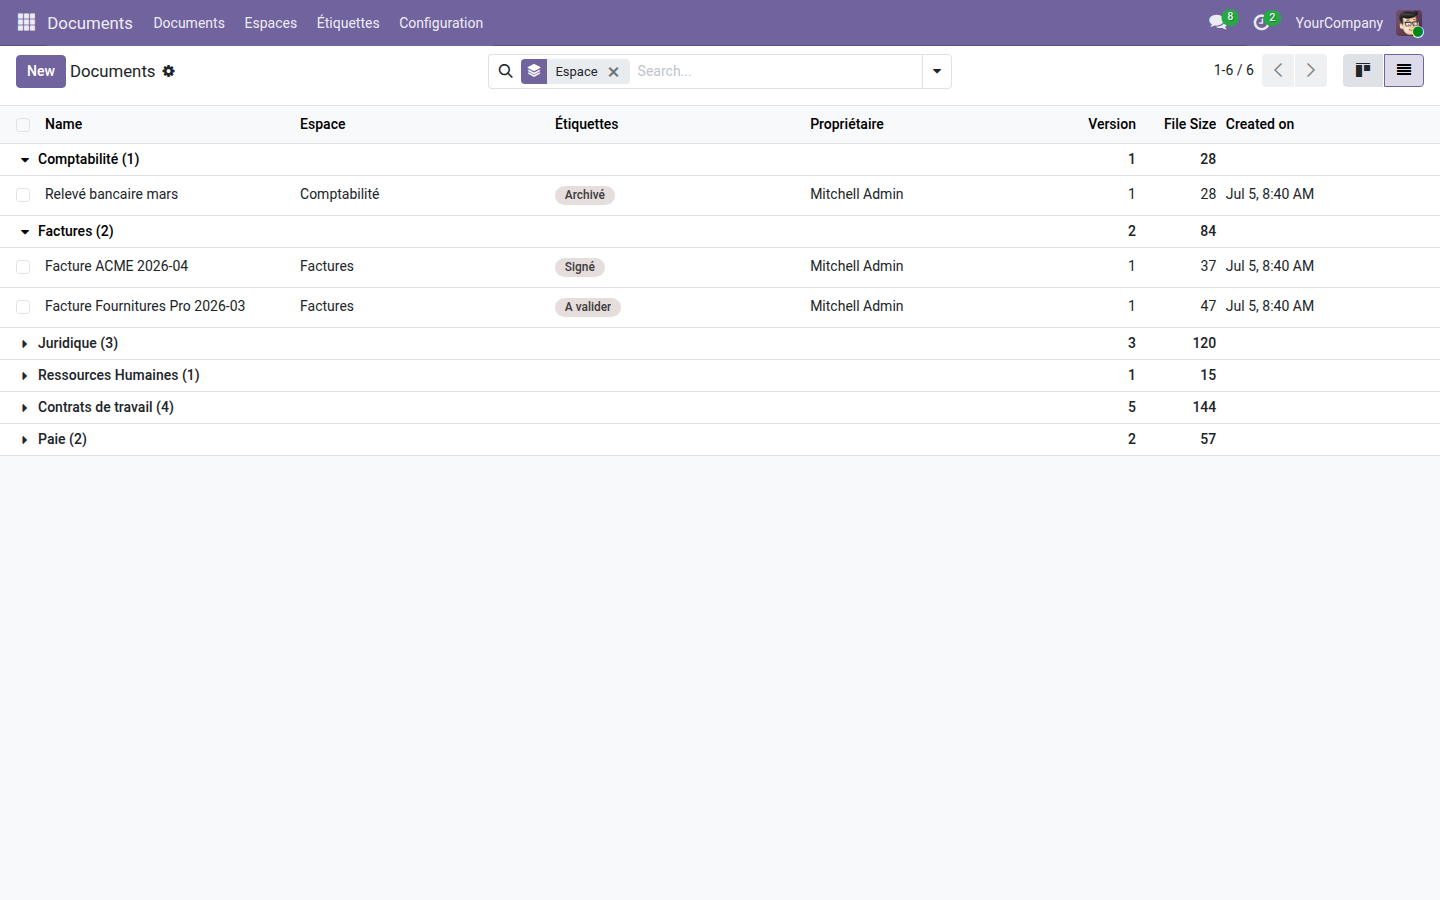
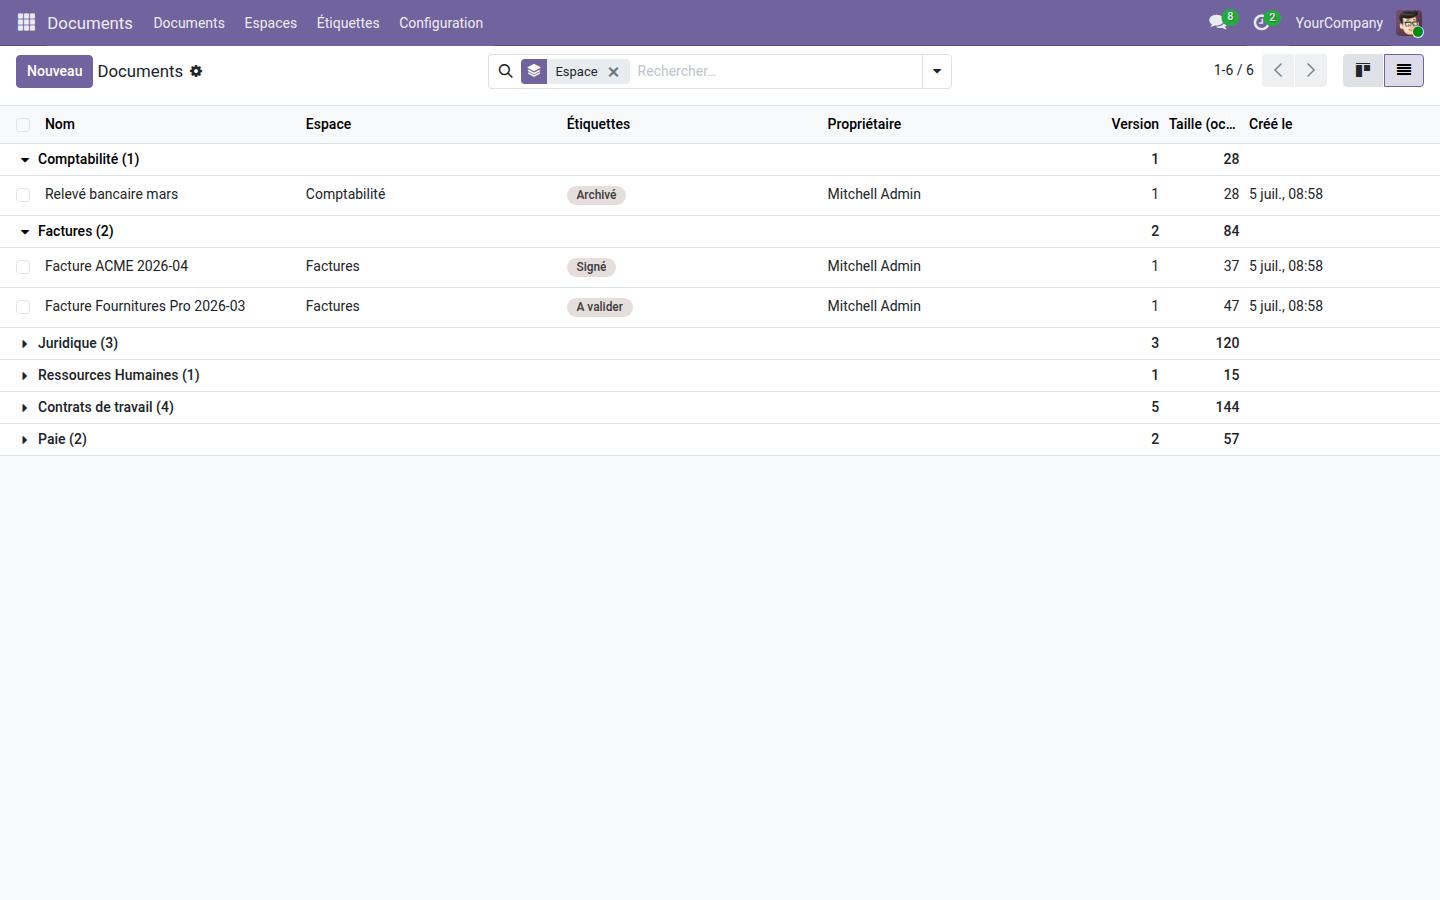
fix(oski_dms): libellés FR sur champs document/espace/étiquette + captures fiche en français
- string= FR : Nom, Type de fichier, Taille (octets) (document) ; Nom (espace, étiquette)
- 3 captures store re-faites en locale fr_FR (UI 100% française)

diff --git a/oski_dms/models/dms_document.py b/oski_dms/models/dms_document.py
@@ -8,7 +8,7 @@ class DmsDocument(models.Model):
     _inherit = ['mail.thread', 'mail.activity.mixin']
     _order = 'create_date desc'
 
-    name = fields.Char(required=True, tracking=True)
+    name = fields.Char(string="Nom", required=True, tracking=True)
     workspace_id = fields.Many2one(
         'oski.dms.workspace', string="Espace", required=True,
         ondelete='restrict', tracking=True,
@@ -29,8 +29,10 @@ class DmsDocument(models.Model):
     owner_id = fields.Many2one(
         'res.users', string="Propriétaire", default=lambda s: s.env.user)
 
-    mimetype = fields.Char(related='attachment_id.mimetype', store=True)
-    file_size = fields.Integer(related='attachment_id.file_size', store=True)
+    mimetype = fields.Char(
+        related='attachment_id.mimetype', store=True, string="Type de fichier")
+    file_size = fields.Integer(
+        related='attachment_id.file_size', store=True, string="Taille (octets)")
 
     version_no = fields.Integer(string="Version", default=1, copy=False)
     previous_version_id = fields.Many2one(

diff --git a/oski_dms/models/dms_workspace.py b/oski_dms/models/dms_workspace.py
@@ -9,7 +9,7 @@ class DmsWorkspace(models.Model):
     _parent_name = 'parent_id'
     _order = 'complete_name'
 
-    name = fields.Char(required=True, tracking=True)
+    name = fields.Char(string="Nom", required=True, tracking=True)
     parent_id = fields.Many2one(
         'oski.dms.workspace', string="Espace parent",
         ondelete='cascade', index=True)

diff --git a/oski_dms/models/dms_tag.py b/oski_dms/models/dms_tag.py
@@ -6,7 +6,7 @@ class DmsTag(models.Model):
     _description = "Étiquette GED"
     _order = 'name'
 
-    name = fields.Char(required=True)
+    name = fields.Char(string="Nom", required=True)
     color = fields.Integer(string="Couleur")
     parent_id = fields.Many2one('oski.dms.tag', string="Catégorie", ondelete='set null')
 
